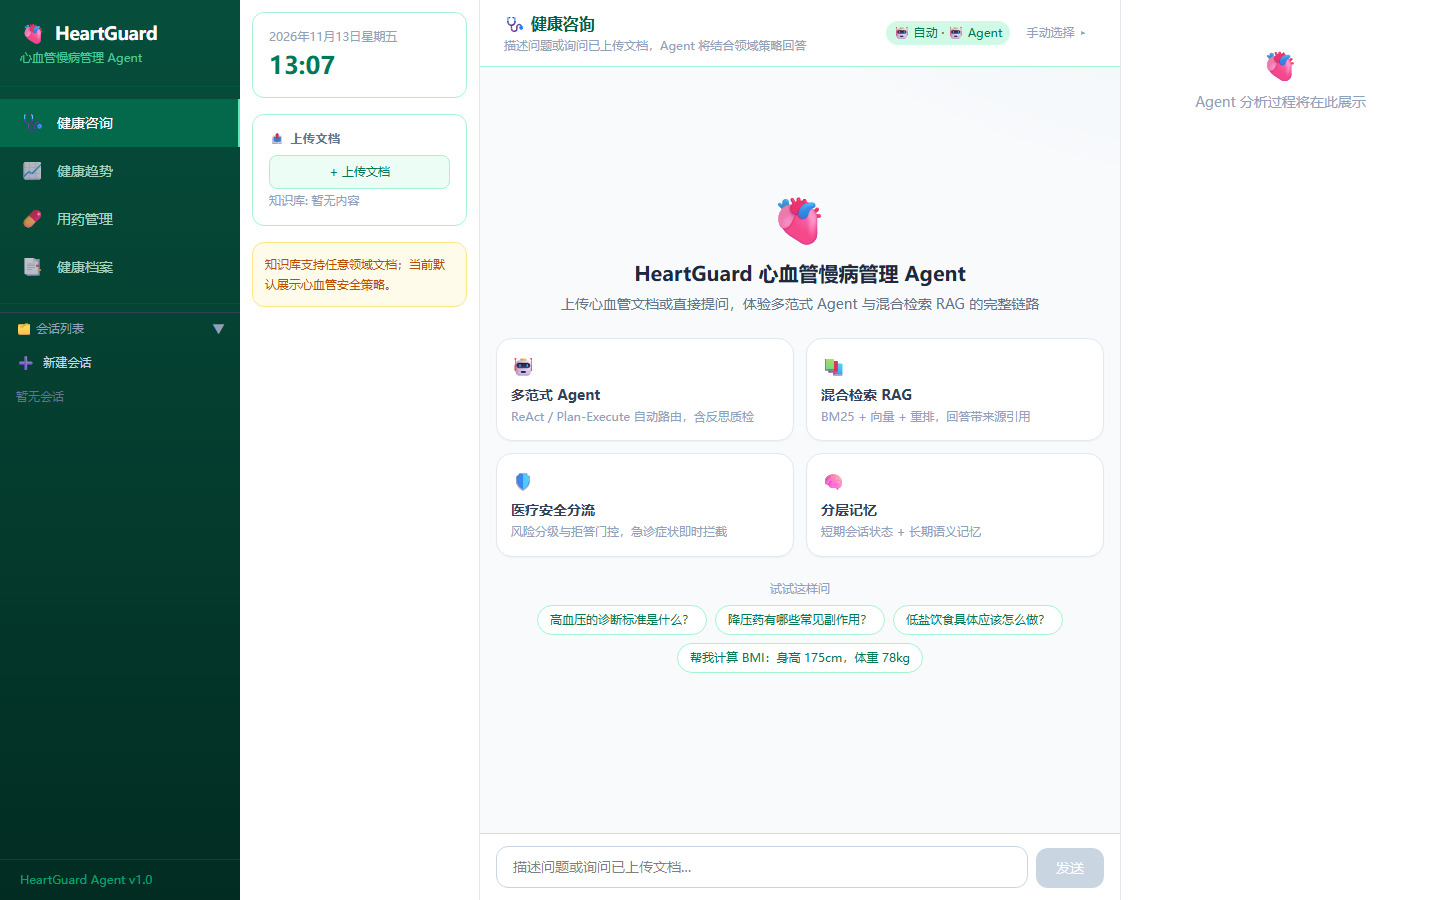
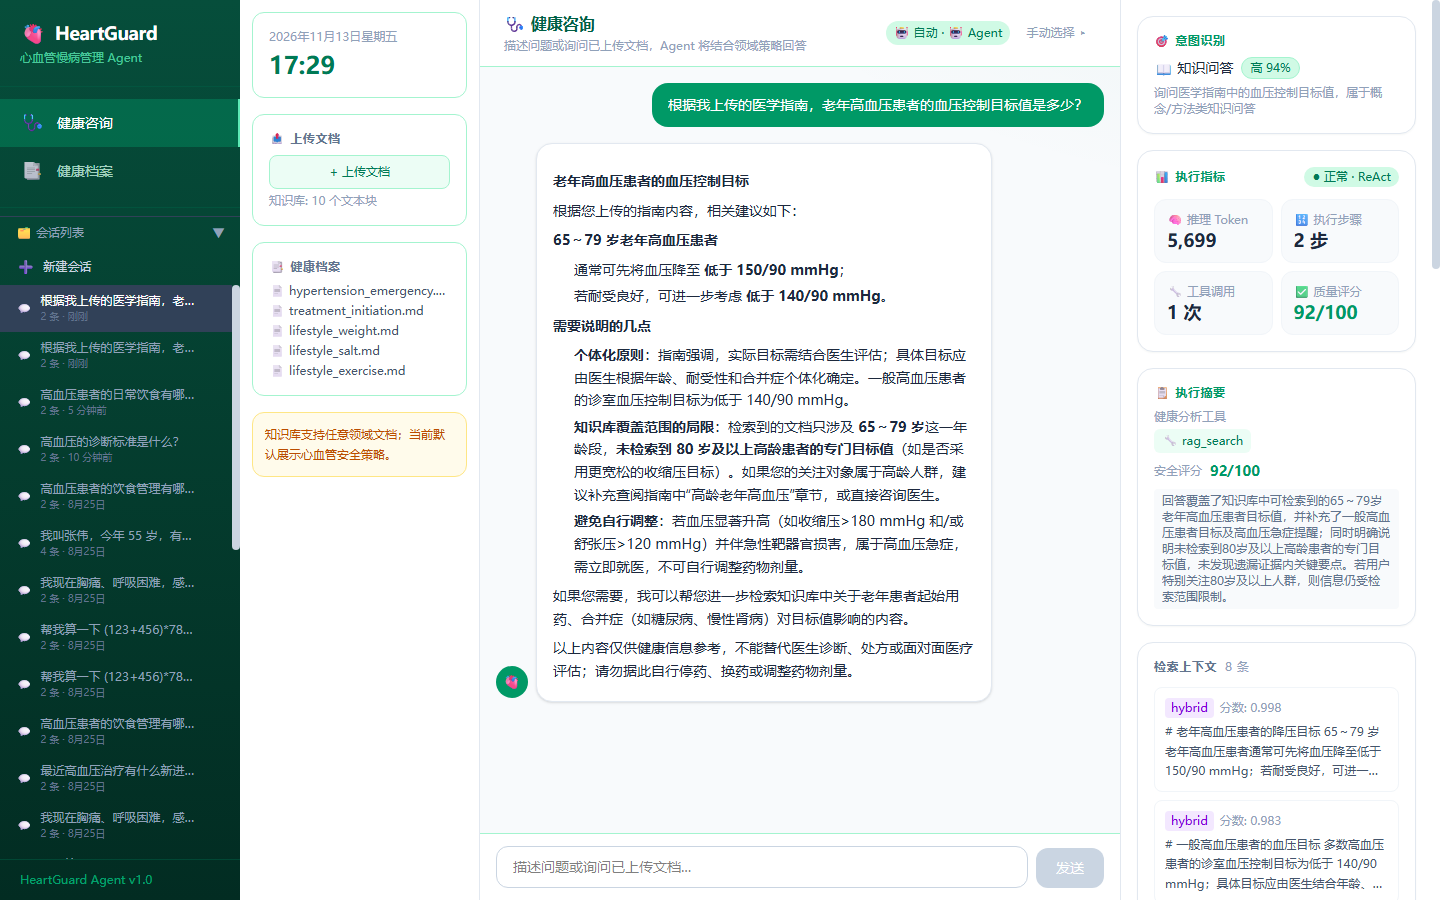
docs: 更新界面预览截图与 README
- 界面调整为两个模块：健康咨询 + 健康档案（移除健康趋势/用药管理）
- chat 截图更新为 Agent 模式，右侧展示执行指标、工具调用与 RAG 检索文档
- 新增健康档案页截图，删除已隐藏模块的旧截图

diff --git a/README.md b/README.md
@@ -15,9 +15,9 @@
 
 ## 界面预览
 
-| 智能咨询 | 健康趋势 | 用药管理 |
-| --- | --- | --- |
-| ![智能咨询](screenshots/chat.png) | ![健康趋势](screenshots/monitor.png) | ![用药管理](screenshots/medication.png) |
+| 健康咨询 | 健康档案 |
+| --- | --- |
+| ![健康咨询](screenshots/chat.png) | ![健康档案](screenshots/documents.png) |
 
 ## 架构
 
